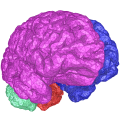
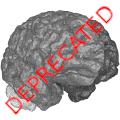
deprecate Surface_mesher package

diff --git a/Surface_mesher/include/CGAL/Surface_mesher/Surface_mesher_manifold.h b/Surface_mesher/include/CGAL/Surface_mesher/Surface_mesher_manifold.h
@@ -16,6 +16,11 @@
 
 #include <CGAL/license/Surface_mesher.h>
 
+#define CGAL_DEPRECATED_HEADER "<CGAL/Surface_mesher/Surface_mesher_manifold.h>"
+#define CGAL_DEPRECATED_MESSAGE_DETAILS \
+  "The 3D Mesh Generation package (see https://doc.cgal.org/latest/Mesh_3/) should be used instead."
+#include <CGAL/Installation/internal/deprecation_warning.h>
+
 #include <CGAL/disable_warnings.h>
 
 #include <CGAL/Surface_mesher/Surface_mesher_regular_edges.h>

diff --git a/Surface_mesher/include/CGAL/Surface_mesh_cell_base_3.h b/Surface_mesher/include/CGAL/Surface_mesh_cell_base_3.h
@@ -14,6 +14,11 @@
 
 #include <CGAL/license/Surface_mesher.h>
 
+#define CGAL_DEPRECATED_HEADER "<CGAL/Surface_mesh_cell_base_3.h>"
+#define CGAL_DEPRECATED_MESSAGE_DETAILS \
+  "The 3D Mesh Generation package (see https://doc.cgal.org/latest/Mesh_3/) should be used instead."
+#include <CGAL/Installation/internal/deprecation_warning.h>
+
 #include <CGAL/Complex_2_in_triangulation_cell_base_3.h>
 #include <CGAL/Delaunay_triangulation_cell_base_3.h>
 

diff --git a/Surface_mesher/include/CGAL/Surface_mesh_vertex_base_3.h b/Surface_mesher/include/CGAL/Surface_mesh_vertex_base_3.h
@@ -14,6 +14,10 @@
 
 #include <CGAL/license/Surface_mesher.h>
 
+#define CGAL_DEPRECATED_HEADER "<CGAL/Surface_mesh_vertex_base_3.h>"
+#define CGAL_DEPRECATED_MESSAGE_DETAILS \
+  "The 3D Mesh Generation package (see https://doc.cgal.org/latest/Mesh_3/) should be used instead."
+#include <CGAL/Installation/internal/deprecation_warning.h>
 
 #include <CGAL/Triangulation_vertex_base_3.h>
 #include <CGAL/Complex_2_in_triangulation_vertex_base_3.h>

diff --git a/Surface_mesher/include/CGAL/Surface_mesh_triangulation_generator_3.h b/Surface_mesher/include/CGAL/Surface_mesh_triangulation_generator_3.h
@@ -14,6 +14,10 @@
 
 #include <CGAL/license/Surface_mesher.h>
 
+#define CGAL_DEPRECATED_HEADER "<CGAL/Surface_mesh_triangulation_generator_3.h>"
+#define CGAL_DEPRECATED_MESSAGE_DETAILS \
+  "The 3D Mesh Generation package (see https://doc.cgal.org/latest/Mesh_3/) should be used instead."
+#include <CGAL/Installation/internal/deprecation_warning.h>
 
 #include <CGAL/Triangulation_data_structure_3.h>
 #include <CGAL/Delaunay_triangulation_3.h>

diff --git a/Surface_mesher/include/CGAL/Surface_mesher/Implicit_surface_oracle_3.h b/Surface_mesher/include/CGAL/Surface_mesher/Implicit_surface_oracle_3.h
@@ -16,6 +16,11 @@
 
 #include <CGAL/license/Surface_mesher.h>
 
+#define CGAL_DEPRECATED_HEADER "<CGAL/Surface_mesher/Implicit_surface_oracle_3.h>"
+#define CGAL_DEPRECATED_MESSAGE_DETAILS \
+  "The 3D Mesh Generation package (see https://doc.cgal.org/latest/Mesh_3/) should be used instead."
+#include <CGAL/Installation/internal/deprecation_warning.h>
+
 #include <CGAL/disable_warnings.h>
 
 #include <CGAL/Surface_mesher/Null_oracle_visitor.h>

diff --git a/Surface_mesher/include/CGAL/Surface_mesher_generator.h b/Surface_mesher/include/CGAL/Surface_mesher_generator.h
@@ -15,6 +15,10 @@
 
 #include <CGAL/license/Surface_mesher.h>
 
+#define CGAL_DEPRECATED_HEADER "<CGAL/Surface_mesher_generator.h>"
+#define CGAL_DEPRECATED_MESSAGE_DETAILS \
+  "The 3D Mesh Generation package (see https://doc.cgal.org/latest/Mesh_3/) should be used instead."
+#include <CGAL/Installation/internal/deprecation_warning.h>
 
 #include <CGAL/Surface_mesher/Surface_mesher.h>
 #include <CGAL/Surface_mesher/Surface_mesher_manifold.h>

diff --git a/Surface_mesher/include/CGAL/Surface_mesher/Surface_mesher_regular_edges.h b/Surface_mesher/include/CGAL/Surface_mesher/Surface_mesher_regular_edges.h
@@ -15,6 +15,11 @@
 
 #include <CGAL/license/Surface_mesher.h>
 
+#define CGAL_DEPRECATED_HEADER "<CGAL/Surface_mesher/Surface_mesher_regular_edges.h>"
+#define CGAL_DEPRECATED_MESSAGE_DETAILS \
+  "The 3D Mesh Generation package (see https://doc.cgal.org/latest/Mesh_3/) should be used instead."
+#include <CGAL/Installation/internal/deprecation_warning.h>
+
 #include <CGAL/disable_warnings.h>
 
 #include <CGAL/Surface_mesher/Surface_mesher.h>

diff --git a/Surface_mesher/include/CGAL/Surface_mesh_complex_2_in_triangulation_3.h b/Surface_mesher/include/CGAL/Surface_mesh_complex_2_in_triangulation_3.h
@@ -15,6 +15,11 @@
 
 #include <CGAL/license/Surface_mesher.h>
 
+#define CGAL_DEPRECATED_HEADER "<CGAL/Surface_mesh_complex_2_in_triangulation_3.h>"
+#define CGAL_DEPRECATED_MESSAGE_DETAILS \
+  "The 3D Mesh Generation package (see https://doc.cgal.org/latest/Mesh_3/) should be used instead."
+#include <CGAL/Installation/internal/deprecation_warning.h>
+
 #include <CGAL/disable_warnings.h>
 
 #include <CGAL/Complex_2_in_triangulation_3.h>

diff --git a/Surface_mesher/include/CGAL/IO/facets_in_complex_2_to_triangle_mesh.h b/Surface_mesher/include/CGAL/IO/facets_in_complex_2_to_triangle_mesh.h
@@ -15,6 +15,11 @@
 
 #include <CGAL/license/Surface_mesher.h>
 
+#define CGAL_DEPRECATED_HEADER "<CGAL/IO/facets_in_complex_2_to_triangle_mesh.h>"
+#define CGAL_DEPRECATED_MESSAGE_DETAILS \
+  "The 3D Mesh Generation package (see https://doc.cgal.org/latest/Mesh_3/) should be used instead."
+#include <CGAL/Installation/internal/deprecation_warning.h>
+
 #include <CGAL/disable_warnings.h>
 
 #include <CGAL/boost/graph/Euler_operations.h>

diff --git a/Surface_mesher/include/CGAL/make_piecewise_smooth_surface_mesh.h b/Surface_mesher/include/CGAL/make_piecewise_smooth_surface_mesh.h
@@ -14,6 +14,11 @@
 
 #include <CGAL/license/Surface_mesher.h>
 
+#define CGAL_DEPRECATED_HEADER "<CGAL/make_piecewise_smooth_surface_mesh.h>"
+#define CGAL_DEPRECATED_MESSAGE_DETAILS \
+  "The 3D Mesh Generation package (see https://doc.cgal.org/latest/Mesh_3/) should be used instead."
+#include <CGAL/Installation/internal/deprecation_warning.h>
+
 #include <CGAL/make_surface_mesh.h>
 
 #endif //CGAL_MAKE_PIECEWISE_SMOOTH_SURFACE_MESH_H

diff --git a/Surface_mesher/include/CGAL/Surface_mesher/Intersection_data_structure_3.h b/Surface_mesher/include/CGAL/Surface_mesher/Intersection_data_structure_3.h
@@ -14,6 +14,10 @@
 
 #include <CGAL/license/Surface_mesher.h>
 
+#define CGAL_DEPRECATED_HEADER "<CGAL/Surface_mesher/Intersection_data_structure_3.h>"
+#define CGAL_DEPRECATED_MESSAGE_DETAILS \
+  "The 3D Mesh Generation package (see https://doc.cgal.org/latest/Mesh_3/) should be used instead."
+#include <CGAL/Installation/internal/deprecation_warning.h>
 
 #include <CGAL/Segment_tree_k.h>
 #include <CGAL/Range_segment_tree_traits.h>

diff --git a/Surface_mesher/include/CGAL/Surface_mesher/Sphere_oracle_3.h b/Surface_mesher/include/CGAL/Surface_mesher/Sphere_oracle_3.h
@@ -15,6 +15,11 @@
 
 #include <CGAL/license/Surface_mesher.h>
 
+#define CGAL_DEPRECATED_HEADER "<CGAL/Surface_mesher/Sphere_oracle_3.h>"
+#define CGAL_DEPRECATED_MESSAGE_DETAILS \
+  "The 3D Mesh Generation package (see https://doc.cgal.org/latest/Mesh_3/) should be used instead."
+#include <CGAL/Installation/internal/deprecation_warning.h>
+
 #include <CGAL/disable_warnings.h>
 
 #include <CGAL/Surface_mesher/Null_oracle_visitor.h>
